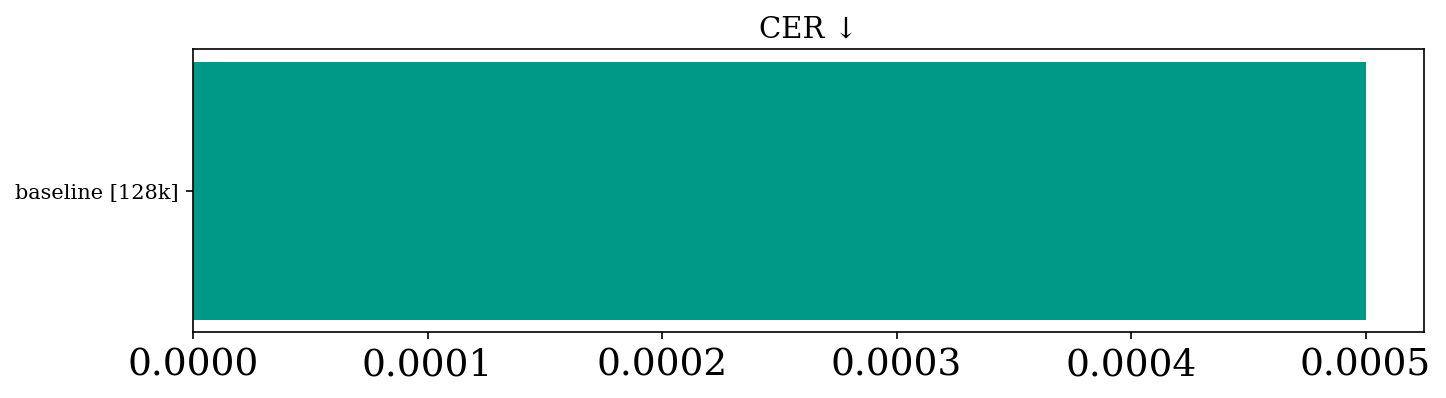
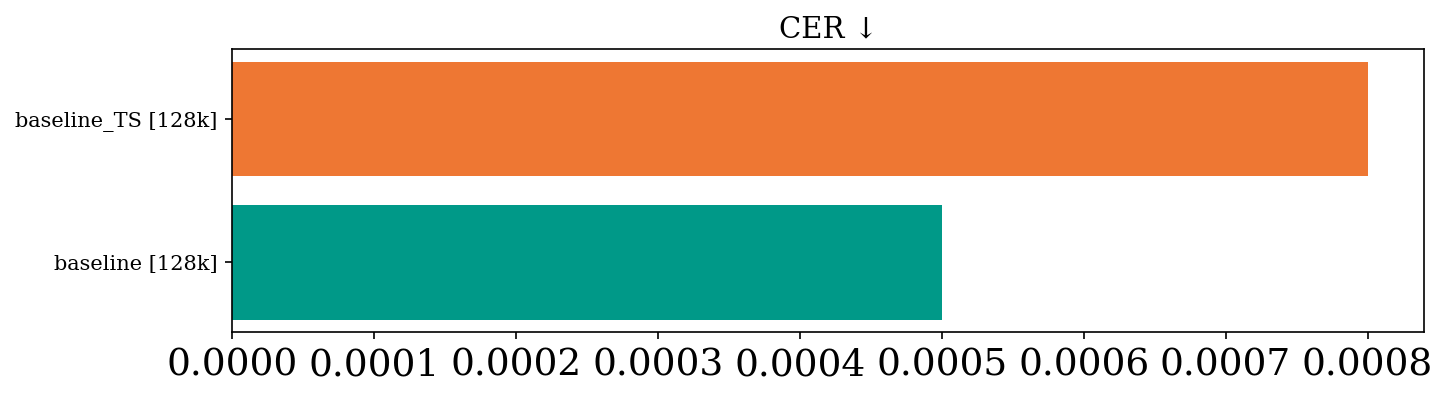
Update RESULTS_flores+_lines.md (2026-06-01 15:30:21)

diff --git a/RESULTS_flores+_lines.md b/RESULTS_flores+_lines.md
@@ -1,34 +1,35 @@
 # Tokenizer Evaluation Results
 
-_Last updated: 2026-05-27 15:38:30_
+_Last updated: 2026-06-01 15:30:22_
 
-| Tokenizer | Vocab Size | Fertility ↓ | Compression Rate ↑ | Vocab Util. ↑ | Avg Token Rank ↓ | Gini ↓ | Bigram Ent. ↑ | 3-Digit Align. F1 ↑ | Op. Isolation ↑ | Bound. Cross ↓ | Char Split ↓ | CER ↓ | WS Fidelity ↑ | Enc. ms/sample ↓ | Languages | Dataset | User | Date | AST Align. ↑ | Ident. Frag. ↓ | Depth Corr. ↑ | Pat. Stability ↑ |
+| Tokenizer | Vocab Size | Fertility ↓ | Compression Rate ↑ | Vocab Util. ↑ | Avg Token Rank ↓ | Gini ↓ | Bigram Ent. ↑ | 3-Digit Align. F1 ↑ | Op. Isolation ↑ | AST Align. ↑ | Ident. Frag. ↓ | Depth Corr. ↑ | Pat. Stability ↑ | Bound. Cross ↓ | Char Split ↓ | CER ↓ | WS Fidelity ↑ | Enc. ms/sample ↓ | Languages | Dataset | User | Date |
 | --- | --- | --- | --- | --- | --- | --- | --- | --- | --- | --- | --- | --- | --- | --- | --- | --- | --- | --- | --- | --- | --- | --- |
-| baseline [128k] | 128,000 | 49.076 | 0.020 | 0.566 | 7214.5 | 0.146 | **0.846** | 0.750 | 0.393 | 0.0296 | 0.0257 | **0.0005** | **1.000** | **0.17** | 92 | flores+ | dkletz | 2026-05-14 | --- | --- | --- | --- |
-| Apertus_Coarse_Family (cmeister747, flores+) | 131,072 | 67.487 | 0.015 | 0.560 | 4016.1 | 0.302 | --- | --- | 0.249 | 0.0096 | 0.1499 | --- | --- | --- | 92 | flores+ | cmeister747 | 2026-03-06 | 0.065 | 0.033 | -0.039 | 0.997 |
-| BPE_Coarse_Family (cmeister747, flores+) | 131,072 | 49.707 | 0.020 | 0.543 | 7585.0 | 0.096 | --- | 0.335 | 0.494 | 0.0068 | 0.0111 | --- | --- | --- | 92 | flores+ | cmeister747 | 2026-03-06 | 0.724 | 0.434 | -0.039 | 0.997 |
-| aggresssive_N2_64K (vkanjira, flores+) | 60,682 | 67.253 | 0.018 | 0.354 | 893.1 | 0.129 | --- | 0.681 | 0.077 | **0.0000** | 0.0049 | --- | --- | --- | 92 | flores+ | vkanjira | 2026-03-06 | **0.922** | 0.561 | --- | **1.000** |
-| Boundless pairwise aggressive n2 (dkletz, flores+) | 5,033 | 88.335 | 0.013 | 0.644 | **108.7** | 0.082 | --- | --- | 0.047 | --- | --- | --- | --- | --- | 92 | flores+ | dkletz | 2026-02-22 | --- | --- | --- | --- |
-| Classical (meistecl, flores+) | 128,004 | 59.463 | 0.022 | 0.682 | 4663.5 | 0.246 | --- | 0.789 | 0.294 | 0.0574 | 0.1337 | --- | --- | --- | 92 | flores+ | meistecl | 2026-03-03 | 0.148 | 0.055 | -0.049 | 0.991 |
-| Parity-aware (meistecl, flores+) | 128,004 | 59.101 | 0.022 | **0.691** | 4456.6 | 0.220 | --- | 0.736 | 0.294 | 0.0440 | 0.1106 | --- | --- | --- | 92 | flores+ | meistecl | 2026-03-03 | 0.188 | 0.082 | -0.049 | 0.991 |
-| Parity-aware (hybrid) (meistecl, flores+) | 128,004 | 58.267 | 0.022 | 0.691 | 4640.4 | 0.223 | --- | 0.771 | 0.294 | 0.0450 | 0.1107 | --- | --- | --- | 92 | flores+ | meistecl | 2026-03-03 | 0.160 | 0.066 | -0.049 | 0.991 |
-| Gemma 3 (meistecl, flores+) | 262,145 | **46.221** | 0.026 | 0.447 | 9461.6 | 0.126 | --- | 0.451 | 0.509 | 0.0293 | 0.0110 | --- | --- | --- | 92 | flores+ | meistecl | 2026-03-03 | 0.088 | 0.030 | -0.091 | 0.965 |
-| Qwen 3 (meistecl, flores+) | 151,669 | 75.897 | 0.020 | 0.324 | 1699.6 | 0.312 | --- | 0.451 | 0.966 | 0.0561 | 0.2422 | --- | --- | --- | 92 | flores+ | meistecl | 2026-03-03 | 0.605 | 0.383 | -0.037 | 0.994 |
-| Qwen 3.5 (meistecl, flores+) | 248,077 | 53.347 | 0.024 | 0.387 | 5435.7 | 0.204 | --- | 0.451 | 0.966 | 0.0096 | 0.0352 | --- | --- | --- | 92 | flores+ | meistecl | 2026-03-03 | 0.680 | 0.381 | -0.037 | 0.994 |
-| GPT-4 (meistecl, flores+) | 100,261 | 90.200 | 0.018 | 0.302 | 917.5 | 0.362 | --- | 0.793 | 0.966 | 0.0517 | 0.4671 | --- | --- | --- | 92 | flores+ | meistecl | 2026-03-03 | 0.605 | 0.383 | -0.037 | 0.994 |
-| GPT-4o (meistecl, flores+) | 200,000 | 47.045 | **0.027** | 0.522 | 9529.8 | 0.169 | --- | 0.793 | 0.966 | 0.0078 | 0.0475 | --- | --- | --- | 92 | flores+ | meistecl | 2026-03-03 | 0.609 | 0.401 | -0.037 | 0.994 |
-| Mistral-Nemo (meistecl, flores+) | 131,072 | 64.763 | 0.023 | 0.564 | 4318.1 | 0.308 | --- | 0.451 | 0.496 | 0.0171 | 0.1525 | --- | --- | --- | 92 | flores+ | meistecl | 2026-03-03 | 0.060 | 0.037 | -0.037 | 0.994 |
-| DeepSeek R1 (meistecl, flores+) | 128,815 | 62.674 | 0.021 | 0.418 | 2864.6 | 0.229 | --- | 0.793 | 0.496 | 0.0509 | 0.0103 | --- | --- | --- | 92 | flores+ | meistecl | 2026-03-03 | 0.000 | --- | -0.037 | 0.994 |
-| Cohere Command R (meistecl, flores+) | 255,029 | 75.168 | 0.022 | 0.433 | 3397.6 | 0.371 | --- | 0.451 | 0.509 | 0.0474 | 0.0008 | --- | --- | --- | 92 | flores+ | meistecl | 2026-03-03 | 0.032 | 0.016 | -0.037 | 0.994 |
-| Kimi (meistecl, flores+) | 163,840 | 62.820 | 0.020 | 0.244 | 2283.0 | 0.199 | --- | 0.793 | 0.966 | 0.0498 | 0.1139 | --- | --- | --- | 92 | flores+ | meistecl | 2026-03-03 | 0.609 | 0.408 | -0.037 | 0.994 |
-| GLM (meistecl, flores+) | 151,343 | 86.320 | 0.019 | 0.364 | 1631.6 | 0.372 | --- | 0.644 | 0.000 | 0.0000 | **0.0000** | --- | --- | --- | 92 | flores+ | meistecl | 2026-03-03 | 0.001 | **0.000** | **0.000** | 1.000 |
-| GPT OSS (meistecl, flores+) | 200,019 | 47.045 | 0.027 | 0.521 | 9529.8 | 0.169 | --- | 0.793 | 0.966 | 0.0078 | 0.0475 | --- | --- | --- | 92 | flores+ | meistecl | 2026-03-03 | 0.609 | 0.401 | -0.037 | 0.994 |
-| Apertus (meistecl, flores+) | 131,072 | 64.763 | 0.023 | 0.564 | 4318.1 | 0.308 | --- | 0.451 | 0.496 | 0.0171 | 0.1525 | --- | --- | --- | 92 | flores+ | meistecl | 2026-03-03 | 0.060 | 0.037 | -0.037 | 0.994 |
-| SuperBPE default regex (meistecl, flores+) | 130,000 | 46.224 | 0.025 | 0.553 | 9333.4 | 0.106 | --- | 0.793 | 0.407 | 0.0206 | 0.0249 | --- | --- | --- | 92 | flores+ | meistecl | 2026-03-03 | 0.225 | 0.028 | -0.037 | 0.994 |
-| DeepSeek V3 (meistecl, flores+) | 128,815 | 62.674 | 0.021 | 0.418 | 2864.6 | 0.229 | --- | 0.793 | 0.496 | 0.0509 | 0.0103 | --- | --- | --- | 92 | flores+ | meistecl | 2026-03-03 | 0.000 | --- | -0.037 | 0.994 |
-| SuperBPE Apertus regex (meistecl, flores+) | 130,000 | 52.158 | 0.024 | 0.593 | 7591.0 | 0.192 | --- | 0.793 | **0.992** | 0.0085 | 0.0139 | --- | --- | --- | 92 | flores+ | meistecl | 2026-03-03 | 0.259 | 0.029 | -0.037 | 0.994 |
-| SuperBPE qwen regex (meistecl, flores+) | 130,000 | 48.526 | 0.024 | 0.572 | 9524.6 | 0.097 | --- | 0.451 | 0.407 | 0.0292 | 0.0332 | --- | --- | --- | 92 | flores+ | meistecl | 2026-03-03 | 0.284 | 0.024 | -0.031 | 0.995 |
-| SuperBPE math (meistecl, flores+) | 130,000 | 52.985 | 0.024 | 0.543 | 6733.8 | 0.190 | --- | 0.793 | 0.992 | 0.0092 | 0.0126 | --- | --- | --- | 92 | flores+ | meistecl | 2026-03-03 | 0.264 | 0.028 | -0.037 | 0.994 |
-| SuperBPE math new reg (meistecl, flores+) | 130,000 | 46.554 | 0.025 | 0.539 | 8783.4 | 0.112 | --- | **0.891** | 0.263 | 0.0218 | 0.0242 | --- | --- | --- | 92 | flores+ | meistecl | 2026-03-03 | 0.230 | 0.027 | -0.037 | 0.994 |
-| PA BPE grouped (meistecl, flores+) | 120,260 | 47.187 | 0.024 | 0.632 | 8240.1 | **0.064** | --- | 0.722 | 0.294 | 0.0173 | 0.0205 | --- | --- | --- | 92 | flores+ | meistecl | 2026-03-03 | 0.159 | 0.067 | -0.049 | 0.991 |
-| PA BPE grouped math (meistecl, flores+) | 128,260 | 47.533 | 0.024 | 0.606 | 8064.2 | 0.074 | --- | 0.451 | 0.496 | 0.0142 | 0.0242 | --- | --- | --- | 92 | flores+ | meistecl | 2026-03-03 | 0.094 | 0.050 | -0.037 | 0.994 |
+| baseline_TS [128k] | 128,000 | 47.055 | 0.021 | 0.667 | 8526.5 | 0.107 | **0.894** | 0.659 | 0.576 | 0.550 | 0.733 | **0.949** | 0.481 | 0.0267 | 0.0255 | 0.0008 | **1.000** | **0.12** | 92 | flores+ | vani.kanjirangat@supsi.ch | 2026-06-01 |
+| baseline [128k] | 128,000 | 49.076 | 0.020 | 0.566 | 7214.5 | 0.146 | 0.846 | 0.750 | 0.393 | --- | --- | --- | --- | 0.0296 | 0.0257 | **0.0005** | 1.000 | 0.17 | 92 | flores+ | dkletz | 2026-05-14 |
+| Apertus_Coarse_Family (cmeister747, flores+) | 131,072 | 67.487 | 0.015 | 0.560 | 4016.1 | 0.302 | --- | --- | 0.249 | 0.065 | 0.033 | -0.039 | 0.997 | 0.0096 | 0.1499 | --- | --- | --- | 92 | flores+ | cmeister747 | 2026-03-06 |
+| BPE_Coarse_Family (cmeister747, flores+) | 131,072 | 49.707 | 0.020 | 0.543 | 7585.0 | 0.096 | --- | 0.335 | 0.494 | 0.724 | 0.434 | -0.039 | 0.997 | 0.0068 | 0.0111 | --- | --- | --- | 92 | flores+ | cmeister747 | 2026-03-06 |
+| aggresssive_N2_64K (vkanjira, flores+) | 60,682 | 67.253 | 0.018 | 0.354 | 893.1 | 0.129 | --- | 0.681 | 0.077 | **0.922** | 0.561 | --- | **1.000** | **0.0000** | 0.0049 | --- | --- | --- | 92 | flores+ | vkanjira | 2026-03-06 |
+| Boundless pairwise aggressive n2 (dkletz, flores+) | 5,033 | 88.335 | 0.013 | 0.644 | **108.7** | 0.082 | --- | --- | 0.047 | --- | --- | --- | --- | --- | --- | --- | --- | --- | 92 | flores+ | dkletz | 2026-02-22 |
+| Classical (meistecl, flores+) | 128,004 | 59.463 | 0.022 | 0.682 | 4663.5 | 0.246 | --- | 0.789 | 0.294 | 0.148 | 0.055 | -0.049 | 0.991 | 0.0574 | 0.1337 | --- | --- | --- | 92 | flores+ | meistecl | 2026-03-03 |
+| Parity-aware (meistecl, flores+) | 128,004 | 59.101 | 0.022 | **0.691** | 4456.6 | 0.220 | --- | 0.736 | 0.294 | 0.188 | 0.082 | -0.049 | 0.991 | 0.0440 | 0.1106 | --- | --- | --- | 92 | flores+ | meistecl | 2026-03-03 |
+| Parity-aware (hybrid) (meistecl, flores+) | 128,004 | 58.267 | 0.022 | 0.691 | 4640.4 | 0.223 | --- | 0.771 | 0.294 | 0.160 | 0.066 | -0.049 | 0.991 | 0.0450 | 0.1107 | --- | --- | --- | 92 | flores+ | meistecl | 2026-03-03 |
+| Gemma 3 (meistecl, flores+) | 262,145 | **46.221** | 0.026 | 0.447 | 9461.6 | 0.126 | --- | 0.451 | 0.509 | 0.088 | 0.030 | -0.091 | 0.965 | 0.0293 | 0.0110 | --- | --- | --- | 92 | flores+ | meistecl | 2026-03-03 |
+| Qwen 3 (meistecl, flores+) | 151,669 | 75.897 | 0.020 | 0.324 | 1699.6 | 0.312 | --- | 0.451 | 0.966 | 0.605 | 0.383 | -0.037 | 0.994 | 0.0561 | 0.2422 | --- | --- | --- | 92 | flores+ | meistecl | 2026-03-03 |
+| Qwen 3.5 (meistecl, flores+) | 248,077 | 53.347 | 0.024 | 0.387 | 5435.7 | 0.204 | --- | 0.451 | 0.966 | 0.680 | 0.381 | -0.037 | 0.994 | 0.0096 | 0.0352 | --- | --- | --- | 92 | flores+ | meistecl | 2026-03-03 |
+| GPT-4 (meistecl, flores+) | 100,261 | 90.200 | 0.018 | 0.302 | 917.5 | 0.362 | --- | 0.793 | 0.966 | 0.605 | 0.383 | -0.037 | 0.994 | 0.0517 | 0.4671 | --- | --- | --- | 92 | flores+ | meistecl | 2026-03-03 |
+| GPT-4o (meistecl, flores+) | 200,000 | 47.045 | **0.027** | 0.522 | 9529.8 | 0.169 | --- | 0.793 | 0.966 | 0.609 | 0.401 | -0.037 | 0.994 | 0.0078 | 0.0475 | --- | --- | --- | 92 | flores+ | meistecl | 2026-03-03 |
+| Mistral-Nemo (meistecl, flores+) | 131,072 | 64.763 | 0.023 | 0.564 | 4318.1 | 0.308 | --- | 0.451 | 0.496 | 0.060 | 0.037 | -0.037 | 0.994 | 0.0171 | 0.1525 | --- | --- | --- | 92 | flores+ | meistecl | 2026-03-03 |
+| DeepSeek R1 (meistecl, flores+) | 128,815 | 62.674 | 0.021 | 0.418 | 2864.6 | 0.229 | --- | 0.793 | 0.496 | 0.000 | --- | -0.037 | 0.994 | 0.0509 | 0.0103 | --- | --- | --- | 92 | flores+ | meistecl | 2026-03-03 |
+| Cohere Command R (meistecl, flores+) | 255,029 | 75.168 | 0.022 | 0.433 | 3397.6 | 0.371 | --- | 0.451 | 0.509 | 0.032 | 0.016 | -0.037 | 0.994 | 0.0474 | 0.0008 | --- | --- | --- | 92 | flores+ | meistecl | 2026-03-03 |
+| Kimi (meistecl, flores+) | 163,840 | 62.820 | 0.020 | 0.244 | 2283.0 | 0.199 | --- | 0.793 | 0.966 | 0.609 | 0.408 | -0.037 | 0.994 | 0.0498 | 0.1139 | --- | --- | --- | 92 | flores+ | meistecl | 2026-03-03 |
+| GLM (meistecl, flores+) | 151,343 | 86.320 | 0.019 | 0.364 | 1631.6 | 0.372 | --- | 0.644 | 0.000 | 0.001 | **0.000** | 0.000 | 1.000 | 0.0000 | **0.0000** | --- | --- | --- | 92 | flores+ | meistecl | 2026-03-03 |
+| GPT OSS (meistecl, flores+) | 200,019 | 47.045 | 0.027 | 0.521 | 9529.8 | 0.169 | --- | 0.793 | 0.966 | 0.609 | 0.401 | -0.037 | 0.994 | 0.0078 | 0.0475 | --- | --- | --- | 92 | flores+ | meistecl | 2026-03-03 |
+| Apertus (meistecl, flores+) | 131,072 | 64.763 | 0.023 | 0.564 | 4318.1 | 0.308 | --- | 0.451 | 0.496 | 0.060 | 0.037 | -0.037 | 0.994 | 0.0171 | 0.1525 | --- | --- | --- | 92 | flores+ | meistecl | 2026-03-03 |
+| SuperBPE default regex (meistecl, flores+) | 130,000 | 46.224 | 0.025 | 0.553 | 9333.4 | 0.106 | --- | 0.793 | 0.407 | 0.225 | 0.028 | -0.037 | 0.994 | 0.0206 | 0.0249 | --- | --- | --- | 92 | flores+ | meistecl | 2026-03-03 |
+| DeepSeek V3 (meistecl, flores+) | 128,815 | 62.674 | 0.021 | 0.418 | 2864.6 | 0.229 | --- | 0.793 | 0.496 | 0.000 | --- | -0.037 | 0.994 | 0.0509 | 0.0103 | --- | --- | --- | 92 | flores+ | meistecl | 2026-03-03 |
+| SuperBPE Apertus regex (meistecl, flores+) | 130,000 | 52.158 | 0.024 | 0.593 | 7591.0 | 0.192 | --- | 0.793 | **0.992** | 0.259 | 0.029 | -0.037 | 0.994 | 0.0085 | 0.0139 | --- | --- | --- | 92 | flores+ | meistecl | 2026-03-03 |
+| SuperBPE qwen regex (meistecl, flores+) | 130,000 | 48.526 | 0.024 | 0.572 | 9524.6 | 0.097 | --- | 0.451 | 0.407 | 0.284 | 0.024 | -0.031 | 0.995 | 0.0292 | 0.0332 | --- | --- | --- | 92 | flores+ | meistecl | 2026-03-03 |
+| SuperBPE math (meistecl, flores+) | 130,000 | 52.985 | 0.024 | 0.543 | 6733.8 | 0.190 | --- | 0.793 | 0.992 | 0.264 | 0.028 | -0.037 | 0.994 | 0.0092 | 0.0126 | --- | --- | --- | 92 | flores+ | meistecl | 2026-03-03 |
+| SuperBPE math new reg (meistecl, flores+) | 130,000 | 46.554 | 0.025 | 0.539 | 8783.4 | 0.112 | --- | **0.891** | 0.263 | 0.230 | 0.027 | -0.037 | 0.994 | 0.0218 | 0.0242 | --- | --- | --- | 92 | flores+ | meistecl | 2026-03-03 |
+| PA BPE grouped (meistecl, flores+) | 120,260 | 47.187 | 0.024 | 0.632 | 8240.1 | **0.064** | --- | 0.722 | 0.294 | 0.159 | 0.067 | -0.049 | 0.991 | 0.0173 | 0.0205 | --- | --- | --- | 92 | flores+ | meistecl | 2026-03-03 |
+| PA BPE grouped math (meistecl, flores+) | 128,260 | 47.533 | 0.024 | 0.606 | 8064.2 | 0.074 | --- | 0.451 | 0.496 | 0.094 | 0.050 | -0.037 | 0.994 | 0.0142 | 0.0242 | --- | --- | --- | 92 | flores+ | meistecl | 2026-03-03 |
